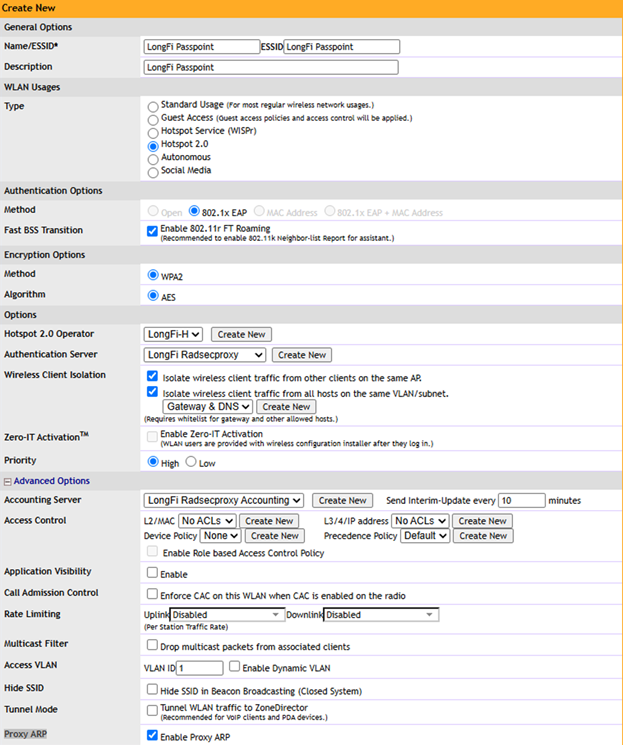
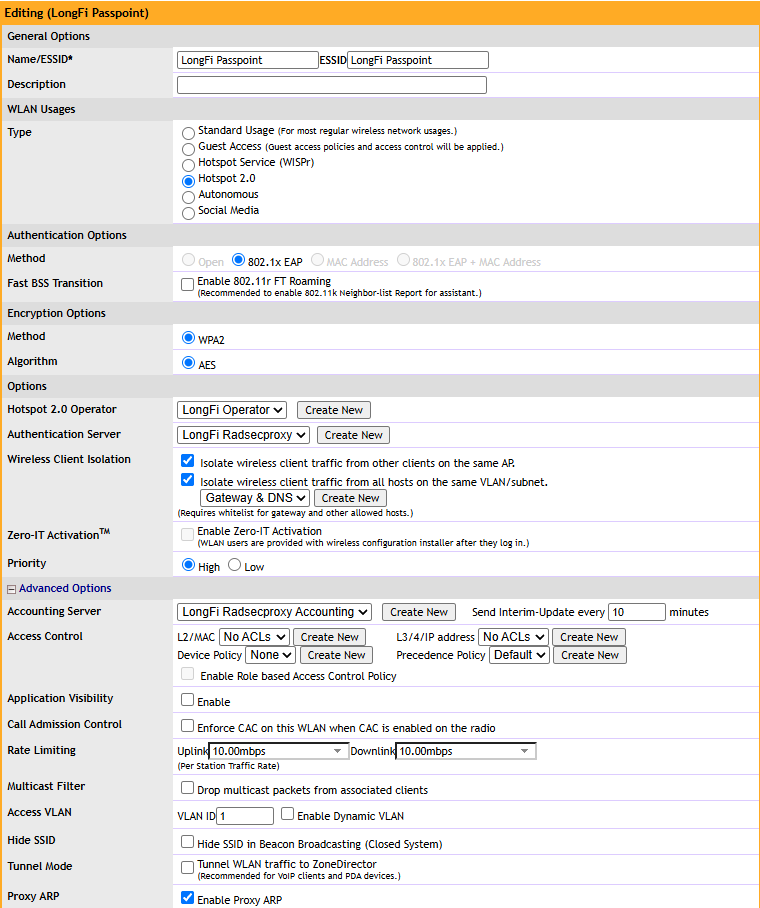
Update Deployment Guides “ruckus-zonedirector” +1

Changed region(s): [[0.0, 0.0, 1.0, 1.0]]

diff --git a/docs/deployment/ruckus-zonedirector.md b/docs/deployment/ruckus-zonedirector.md
@@ -133,7 +133,7 @@ Name: Uplink - Organization ID: 2A2F830000
 
 **3.4 Method - 802.1x EAP**
 
-**3.5 Fast BSS Transition – Enable 802.11r FT Roaming**
+**3.5 Fast BSS Transition – Do NOT Enable 802.11r FT Roaming**
 
 **3.6 Encryption Options – Enable WPA2 and AES**
 
@@ -145,11 +145,11 @@ Name: Uplink - Organization ID: 2A2F830000
 
 **3.10  Accounting Server -** Under **Advanced Options,** select the **RADIUS Accounting server** created in Step 2.
 
-**3.11 Proxy ARP – Enable Proxy ARP**
+**3.11 Access VLAN – Enter the correct VLAN for this SSID**
 
-**3.12 Inactivity Timeout - Terminate idle user session after 5 minutes of inactivity**
+**3.12 Proxy ARP – Enable Proxy ARP**
 
-**3.13 Radio Resource Management - Enable 802.11k Neighbor-list Report**
+**3.13 Inactivity Timeout - Terminate idle user session after 5 minutes of inactivity**
 
  ![](/assets/images/ZoneDirector%20-%205%20WLAN.png)
 
